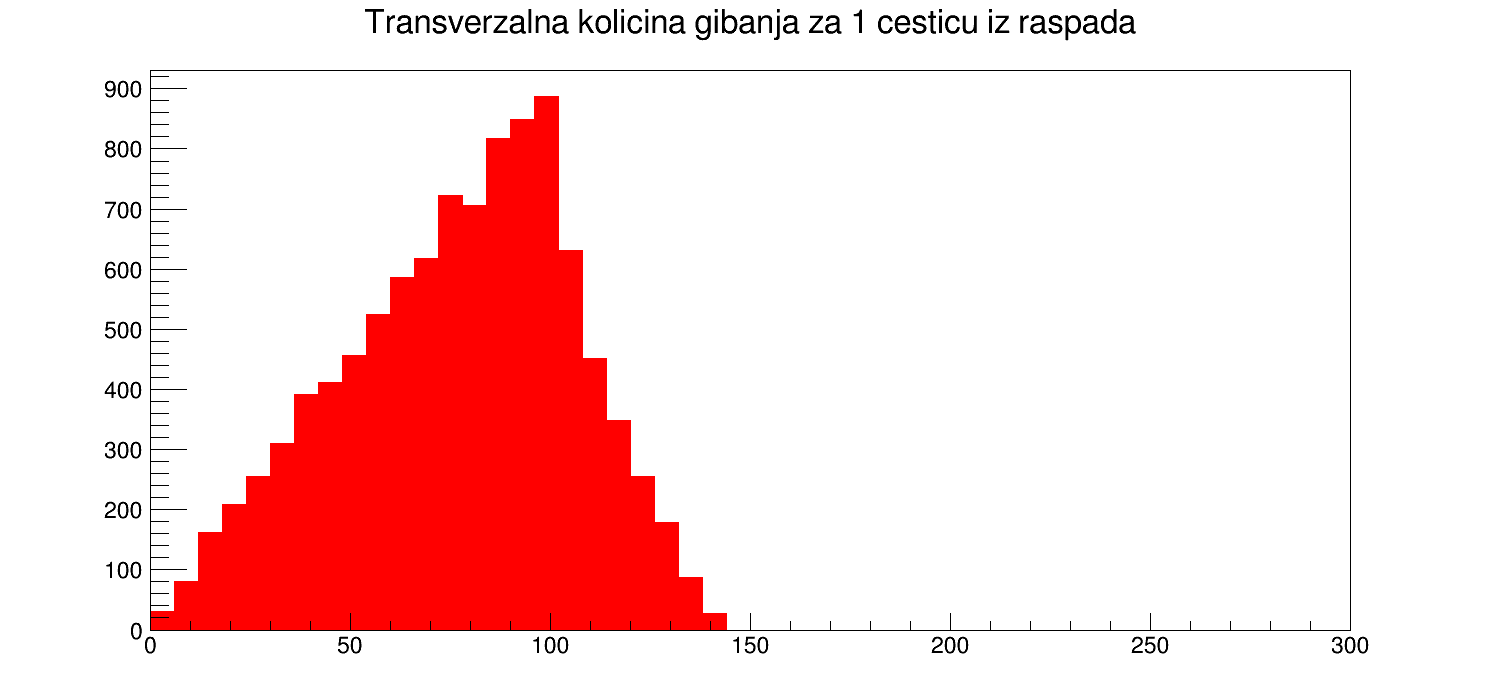
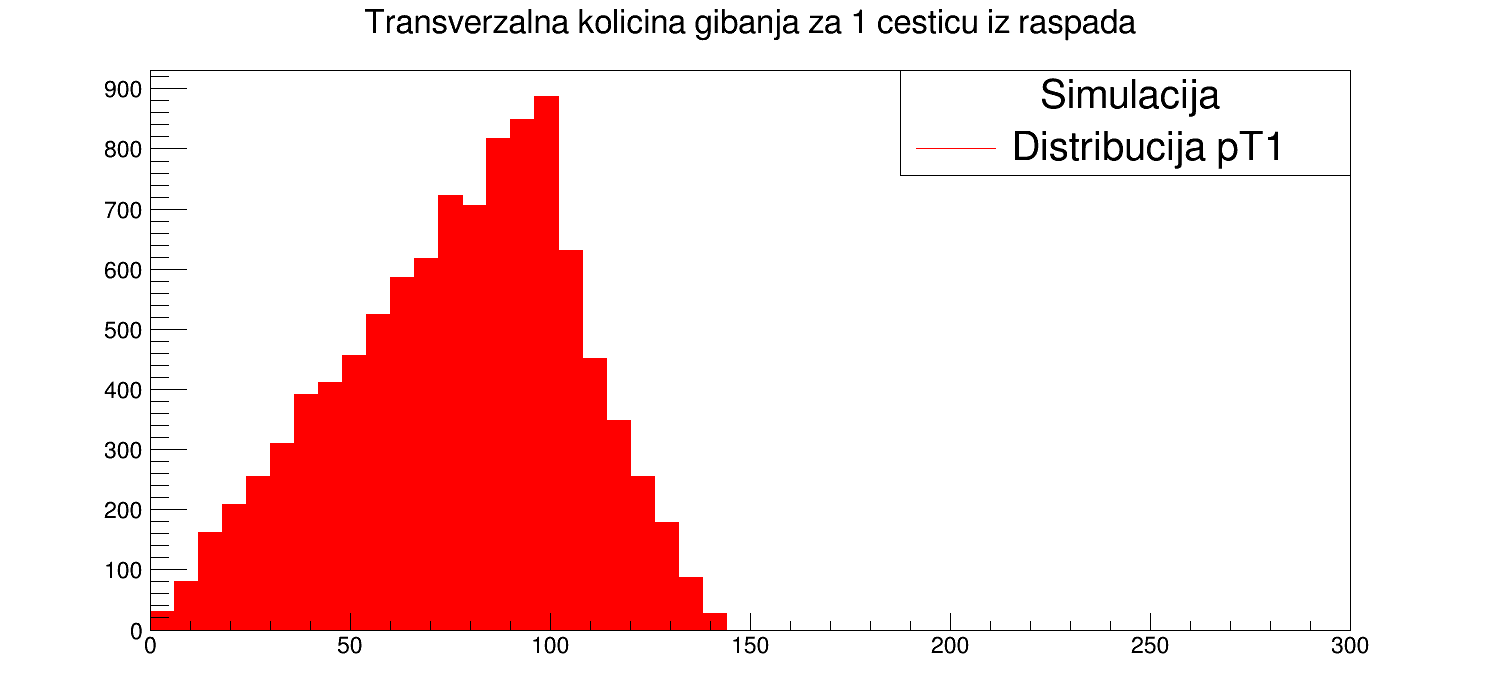
vjezbe5

Changed region(s): [[0.6747, 0.12, 0.8587, 0.24]]

diff --git a/Vjezbe_5/Analyzer.cpp b/Vjezbe_5/Analyzer.cpp
@@ -60,11 +60,11 @@ void Analyzer::PlotHistogram(){
 	hist_pt1 -> SetLineColor (kRed);
 	hist_pt1 -> SetFillColor (kRed);
 	hist_pt1 -> SetTitle ("Transverzalna kolicina gibanja za 1 cesticu iz raspada");
-	//TLegend *legend = new TLegend (0.6, 0.75, 0.9, 0.9, "", "NB");
 	TLegend *legend = new TLegend(0.6,0.75,0.9,0.9);
 	legend -> SetHeader ("Simulacija", "C");
 	legend -> AddEntry (hist_pt1, "Distribucija pT1", "l");
 	hist_pt1 -> Draw();
+	legend -> Draw ();
 	//hist_pt2 -> Draw ("same");
 	canvas -> Print("hist_zad3.pdf");
 	canvas -> Print("hist_zad3.png");
